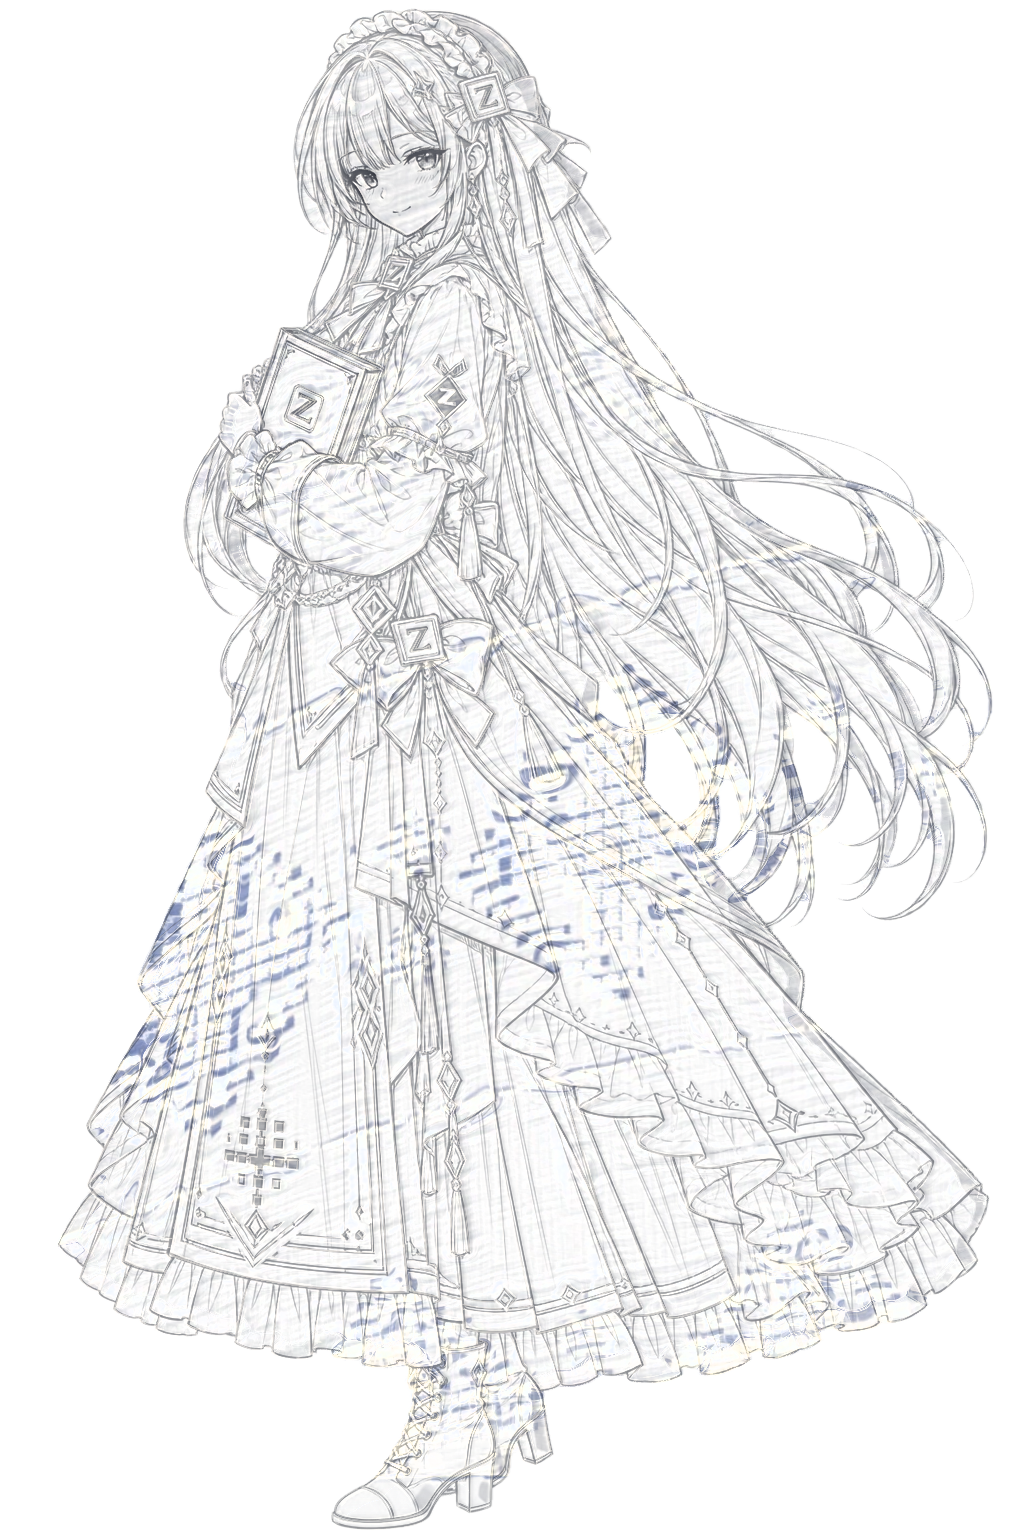
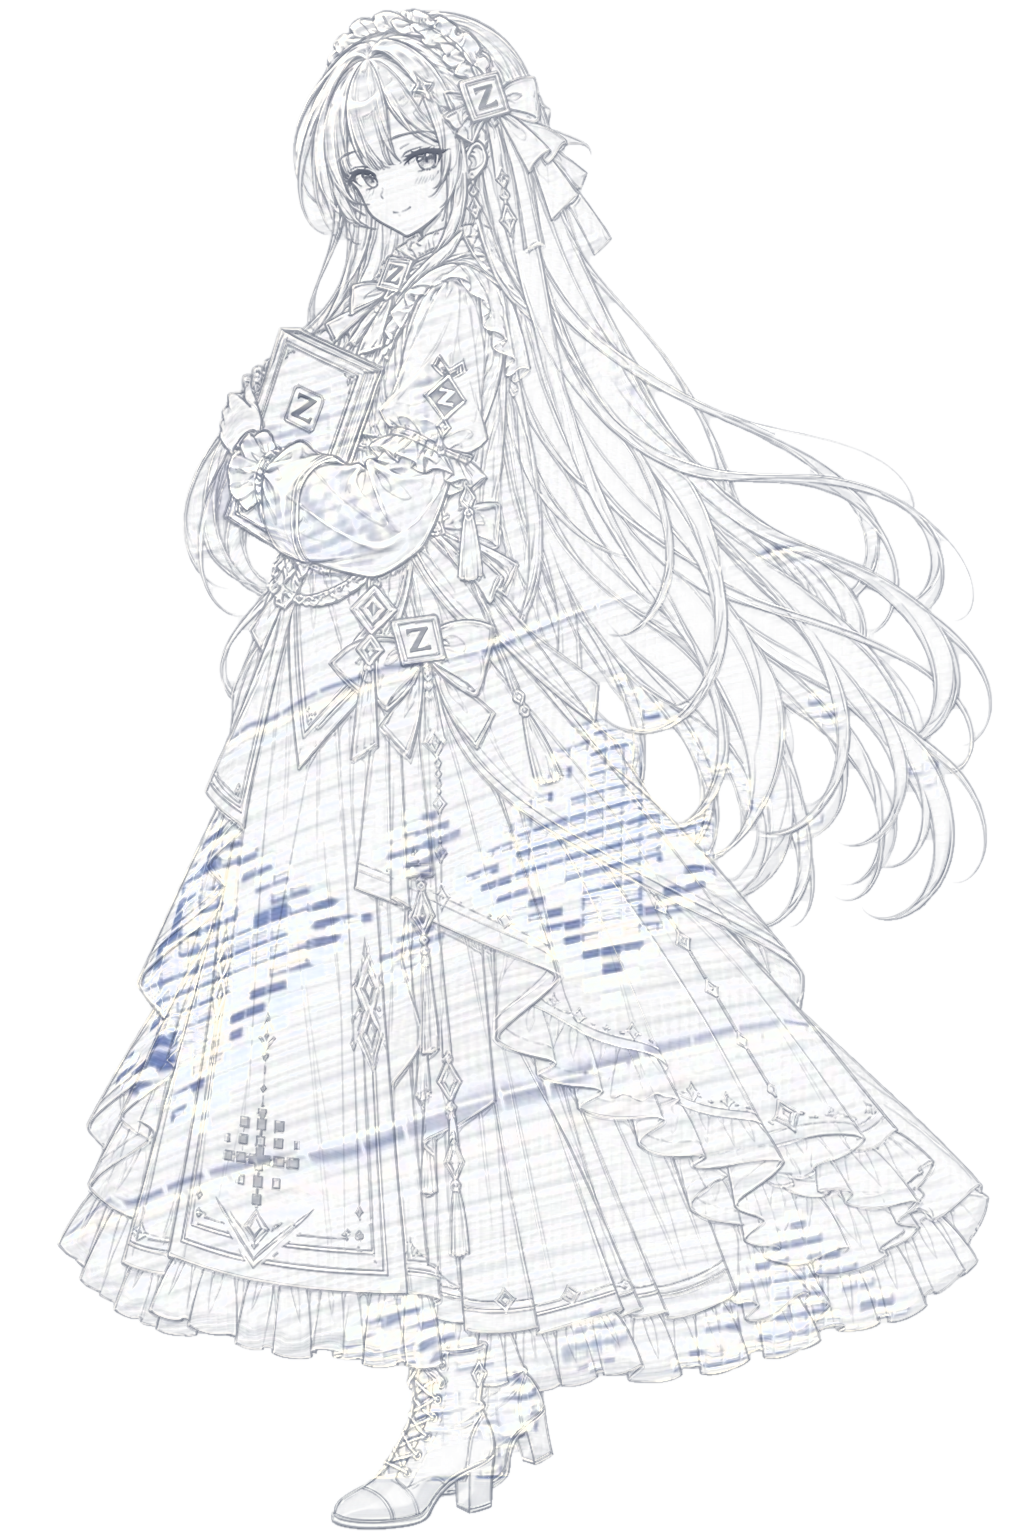
feat(waifu): sync seven refracted portraits to the achievement share preview

Changed region(s): [[0.0625, 0.0, 0.9688, 1.0], [0.75, 0.2812, 0.8125, 0.3125], [0.9062, 0.3438, 0.9375, 0.375]]

diff --git a/public/dev/waifu-visuals/achievement-share/preview.css b/public/dev/waifu-visuals/achievement-share/preview.css
@@ -941,10 +941,10 @@ body[data-scene="sea"] .card[data-skin="deepseek"] .figure-glass,
 body[data-scene="sea"] .card[data-skin="deepseek"] .ink-density {
   display: none;
 }
-body[data-scene="sea"] .card[data-skin="deepseek"] .character {
+body[data-material="flat"] .card[data-skin="deepseek"] .character {
   opacity: 0;
 }
-body[data-scene="sea"] .card[data-skin="deepseek"] .room::before {
+body[data-material="flat"] .card[data-skin="deepseek"] .room::before {
   content: "";
   position: absolute;
   pointer-events: none;
@@ -955,7 +955,7 @@ body[data-scene="sea"] .card[data-skin="deepseek"] .room::before {
   height: 10%;
   background: var(--sea-shoe-back) center / 100% 100% no-repeat;
 }
-body[data-scene="sea"] .card[data-skin="deepseek"] .room::after {
+body[data-material="flat"] .card[data-skin="deepseek"] .room::after {
   content: "";
   position: absolute;
   inset: auto;
@@ -970,26 +970,20 @@ body[data-scene="sea"] .card[data-skin="deepseek"] .room::after {
 body[data-scene="sea"] .card[data-skin="deepseek"] .award {
   z-index: 2;
 }
-body[data-scene="sea"] .card[data-skin="deepseek"][data-mode="light"] {
-  --sea-shoe-back: url("./art/deepseek/shoe-back-light.webp");
-}
 body[data-material="relief"] .card[data-skin="deepseek"][data-mode="light"] {
-  --sea-room: url("./art/deepseek/sea-relief-light.webp");
-  --sea-shoe-glass: url("./art/deepseek/shoe-relief-light.webp");
+  --sea-room: url("./art/deepseek/background-light.webp");
 }
 body[data-material="flat"] .card[data-skin="deepseek"][data-mode="light"] {
   --sea-room: url("./art/deepseek/sea-flat-light.webp");
+  --sea-shoe-back: url("./art/deepseek/shoe-back-light.webp");
   --sea-shoe-glass: url("./art/deepseek/shoe-flat-light.webp");
 }
-body[data-scene="sea"] .card[data-skin="deepseek"][data-mode="dark"] {
-  --sea-shoe-back: url("./art/deepseek/shoe-back-dark.webp");
-}
 body[data-material="relief"] .card[data-skin="deepseek"][data-mode="dark"] {
-  --sea-room: url("./art/deepseek/sea-relief-dark.webp");
-  --sea-shoe-glass: url("./art/deepseek/shoe-relief-dark.webp");
+  --sea-room: url("./art/deepseek/background-dark.webp");
 }
 body[data-material="flat"] .card[data-skin="deepseek"][data-mode="dark"] {
   --sea-room: url("./art/deepseek/sea-flat-dark.webp");
+  --sea-shoe-back: url("./art/deepseek/shoe-back-dark.webp");
   --sea-shoe-glass: url("./art/deepseek/shoe-flat-dark.webp");
 }
 
@@ -1002,7 +996,10 @@ body[data-material="flat"] .card[data-skin="deepseek"][data-mode="dark"] {
 .card[data-skin="qwen"] :is(.figure-glass, .ink-density) {
   display: none;
 }
-body[data-preview-skin="qwen"] .character-frame {
+body[data-preview-skin="qwen"][data-material="refraction"] .character-frame {
+  display: contents;
+}
+body[data-preview-skin="qwen"][data-material="lineart"] .character-frame {
   position: absolute;
   left: 0;
   bottom: 4.85%;
@@ -1011,7 +1008,7 @@ body[data-preview-skin="qwen"] .character-frame {
   container-type: size;
   pointer-events: none;
 }
-body[data-preview-skin="qwen"] .standee .character-frame .character {
+body[data-preview-skin="qwen"][data-material="lineart"] .standee .character-frame .character {
   left: 50%;
   bottom: 0;
   width: min(calc(100cqw * 1024 / 941), calc(100cqh * 1024 / 1672));
@@ -1034,21 +1031,16 @@ body[data-preview-skin="qwen"][data-texture="fan"] .card[data-mode="dark"] .room
 }
 body[data-preview-skin="qwen"] .optical-plane {
   display: none;
+}
+body[data-preview-skin="qwen"][data-material="lineart"] .optical-plane {
+  display: block;
   position: absolute;
   left: 50%;
   bottom: 0;
   width: min(calc(100cqw * 1024 / 941), calc(100cqh * 1024 / 1672));
   aspect-ratio: 948 / 1659;
   pointer-events: none;
-  transform: translate(-50.048828125%, 3.3482142857%) scaleX(-1);
-  background-size: 100% 100%;
   background-repeat: no-repeat;
-}
-body[data-preview-skin="qwen"][data-texture="fan"][data-material="refraction"] .optical-plane {
-  display: block;
-}
-body[data-preview-skin="qwen"][data-texture="fan"][data-material="lineart"] .optical-plane {
-  display: block;
   background-image: var(--raw);
   background-size: 93.2286% 93.3982%;
   background-position: 54.8% 50.43%;
@@ -1062,18 +1054,6 @@ body[data-preview-skin="qwen"] .card[data-mode="light"] {
 }
 body[data-preview-skin="qwen"] .card[data-mode="dark"] {
   --raw: url(../../../assets/skins/dark/Qwen-side-dark-lineart.webp);
-}
-body[data-preview-skin="qwen"][data-texture="fan"][data-material="refraction"] .card[data-mode="light"] .optical-plane {
-  background-image: url(./art/qwen/relief-light.webp);
-}
-body[data-preview-skin="qwen"][data-texture="fan"][data-material="refraction"] .card[data-mode="light"] .character {
-  filter: url(#qwen-fan-day-etch);
-}
-body[data-preview-skin="qwen"][data-texture="fan"][data-material="refraction"] .card[data-mode="dark"] .optical-plane {
-  background-image: url(./art/qwen/relief-dark.webp);
-}
-body[data-preview-skin="qwen"][data-texture="fan"][data-material="refraction"] .card[data-mode="dark"] .character {
-  filter: url(#qwen-fan-night-etch);
 }
 .card[data-skin="claude"][data-mode="light"] .room {
   background: center / cover no-repeat url("./art/claude/background-light.png");
@@ -1113,6 +1093,8 @@ body[data-preview-skin="qwen"][data-texture="fan"][data-material="refraction"] .
 .card[data-skin="claude"] :is(.table, .light, .figure-glass, .ink-density) {
   display: none;
 }
+body[data-material="refraction"] .card[data-skin="qwen"] .character,
+body[data-material="relief"] .card:is([data-skin="chatgpt"], [data-skin="deepseek"]) .character,
 .card[data-skin="claude"] .character,
 .card[data-skin="glm"] .character,
 .card[data-skin="gemini"] .character,

diff --git a/public/dev/waifu-visuals/achievement-share/preview.js b/public/dev/waifu-visuals/achievement-share/preview.js
@@ -389,8 +389,6 @@ for (const [id, skin] of Object.entries(data.skins)) {
 let selectedSkin = "deepseek",
   appearance = "light";
 
-const nacreRelief = { light: "./art/chatgpt/relief-light.webp", dark: "./art/chatgpt/relief-dark.webp" };
-const qwenGlassPortrait = "./art/qwen/source.png";
 function fitQwenFrame(card, id) {
   const image = card.querySelector(".character");
   const previous = image.closest(".character-frame");
@@ -408,14 +406,12 @@ function fitQwenFrame(card, id) {
   frame.append(optics, image);
 }
 function portraitSource(id, mode) {
+  const material = document.body.dataset.material;
+  if (material === "relief" || material === "refraction") return `./art/${id}/relief-${mode}.webp`;
   if (id === "glm" || id === "claude" || id === "gemini" || id === "kimi" || id === "grok") {
-    const file = document.body.dataset.material === "flat" ? "source.png" : `relief-${mode}.webp`;
-    return `./art/${id}/${file}`;
+    return `./art/${id}/source.png`;
   }
-  if (id === "qwen") return qwenGlassPortrait;
-  const active =
-    id === "chatgpt" && document.body.dataset.scene === "tide" && document.body.dataset.material === "relief";
-  return active ? nacreRelief[mode] : data.skins[id][mode].image;
+  return data.skins[id][mode].image;
 }
 function paintCharacter(card, id, mode) {
   fitQwenFrame(card, id);

diff --git a/public/dev/waifu-visuals/achievement-share/index.html b/public/dev/waifu-visuals/achievement-share/index.html
@@ -7,26 +7,6 @@
     <link rel="stylesheet" href="./preview.css">
   </head>
   <body>
-    <svg width="0" height="0" aria-hidden="true" focusable="false" style="position:absolute;pointer-events:none">
-      <defs>
-        <filter id="qwen-fan-night-etch" x="0%" y="0%" width="100%" height="100%" color-interpolation-filters="sRGB">
-          <feComponentTransfer>
-            <feFuncR type="gamma" amplitude="1" exponent=".82" offset="0" />
-            <feFuncG type="gamma" amplitude="1" exponent=".82" offset="0" />
-            <feFuncB type="gamma" amplitude="1" exponent=".82" offset="0" />
-            <feFuncA type="identity" />
-          </feComponentTransfer>
-        </filter>
-        <filter id="qwen-fan-day-etch" x="0%" y="0%" width="100%" height="100%" color-interpolation-filters="sRGB">
-          <feComponentTransfer>
-            <feFuncR type="gamma" amplitude="1" offset="0" exponent="1.86" />
-            <feFuncG type="gamma" amplitude="1" offset="0" exponent="1.86" />
-            <feFuncB type="gamma" amplitude="1" offset="0" exponent="1.86" />
-            <feFuncA type="identity" />
-          </feComponentTransfer>
-        </filter>
-      </defs>
-    </svg>
     <main>
       <header><h1>成就分享卡预览</h1></header>
       <div class="preview-bar">
